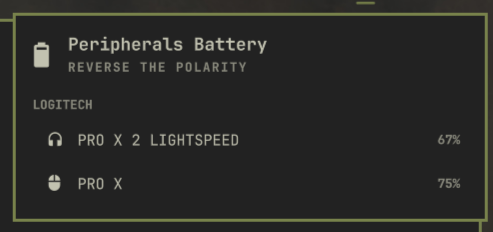
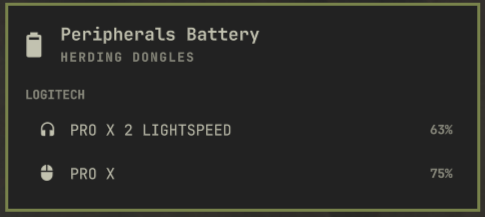
docs: keep a single panel preview
Replace the earlier shots with one crop at the repo root.

diff --git a/README.md b/README.md
@@ -22,12 +22,6 @@
 - **Laptop battery.** That is `omarchy.power`.
 - **Connect / forget.** Stock Bluetooth.
 
-## Screenshots
-
-| | |
-|:---:|:---:|
-| <img src="docs/panel.png" alt="Panel close-up"><br>Logitech mouse and headset, percent only | <img src="docs/panel-in-bar.png" alt="Panel under the Omarchy bar"><br>Same panel under the bar |
-
 ## Requirements
 
 - Omarchy 4 (Quattro). Python 3 is already on the system; the helper uses the standard library only.
